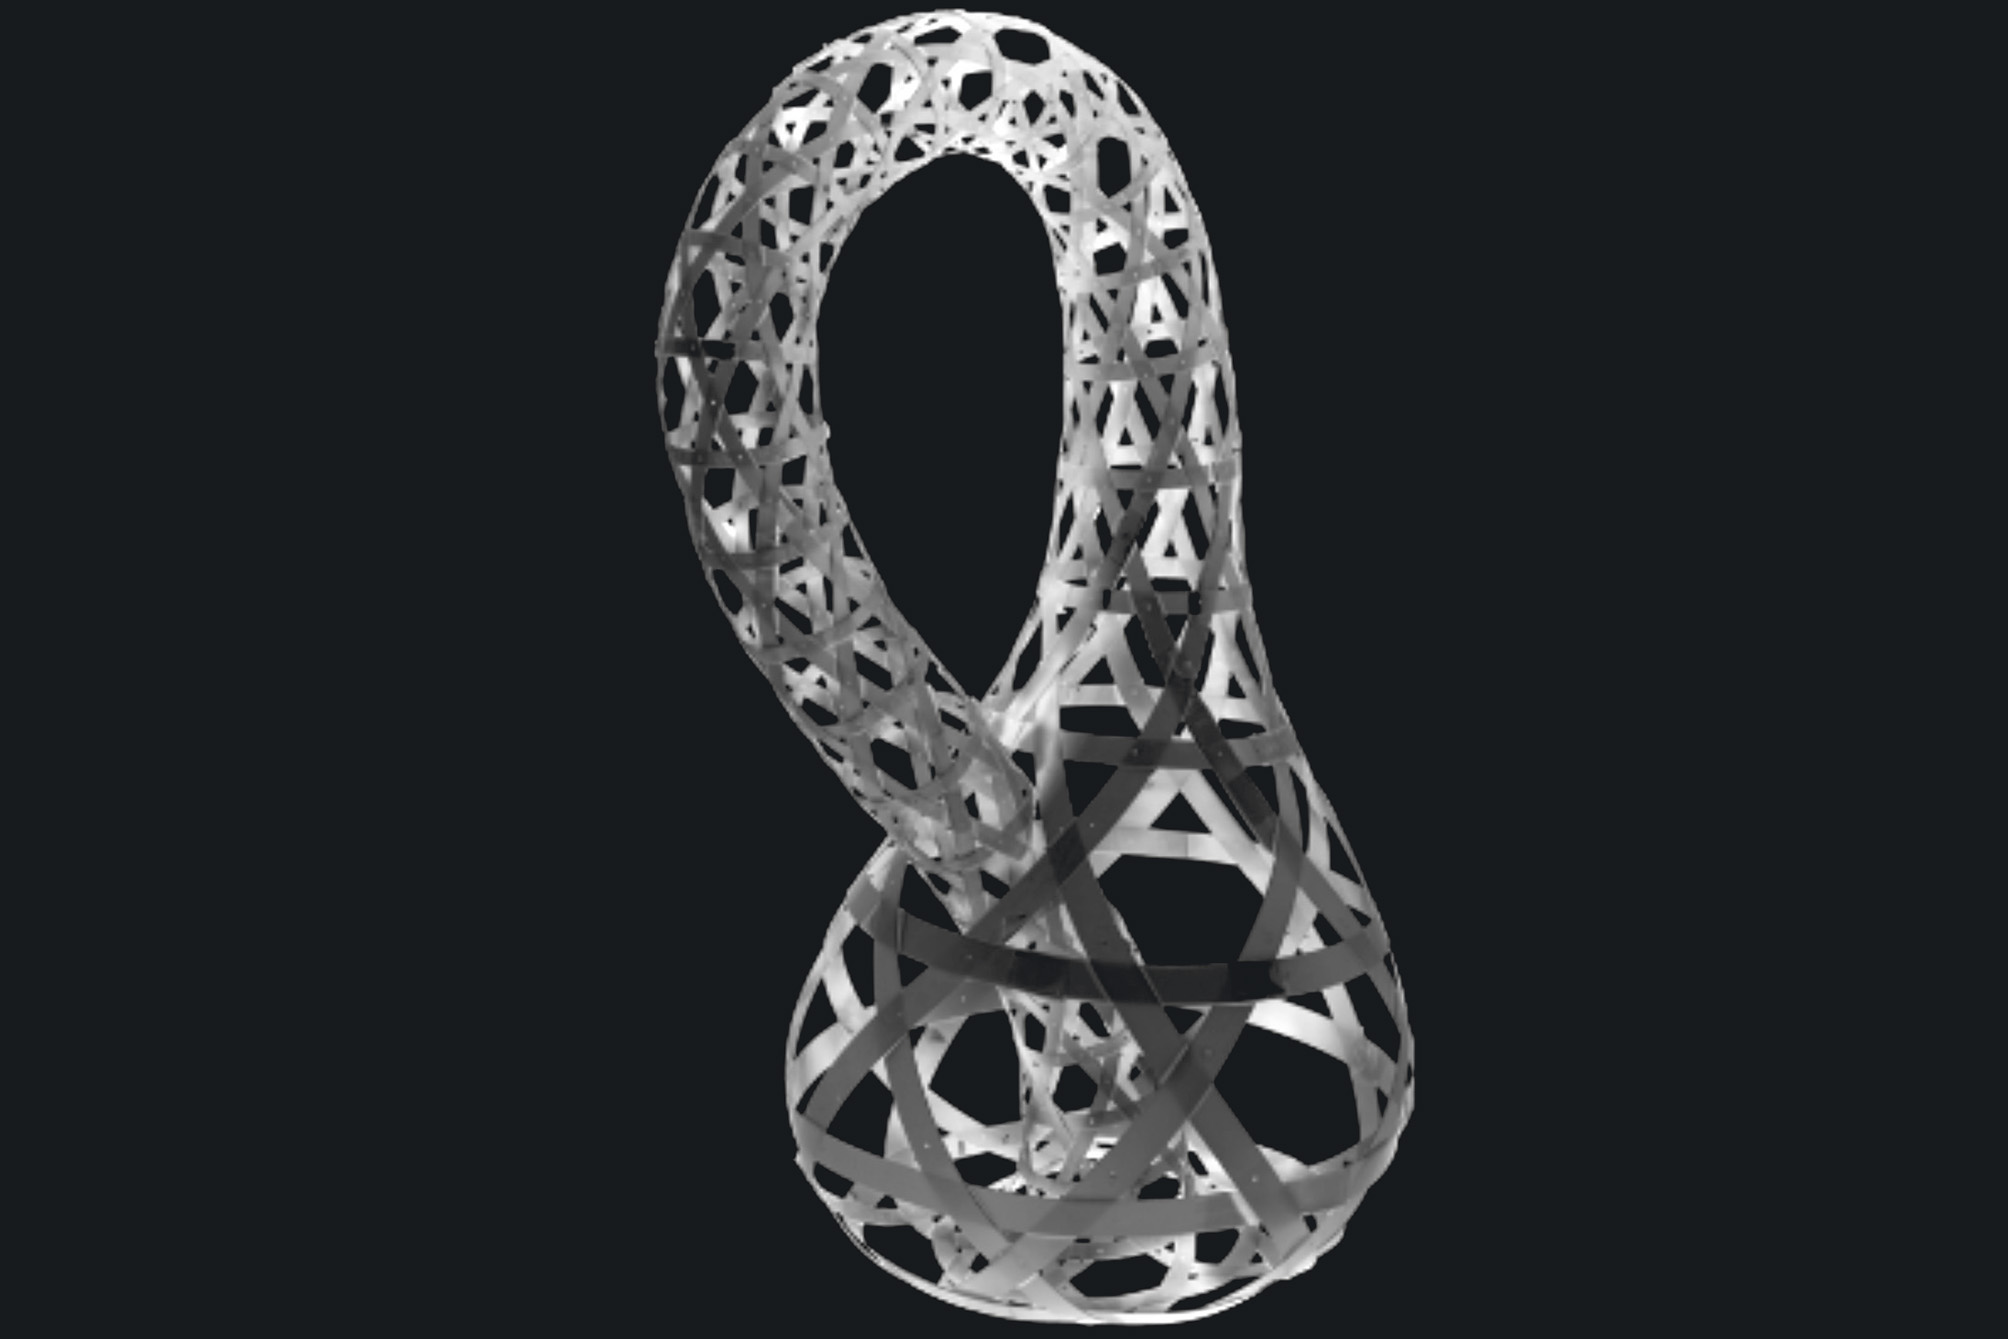
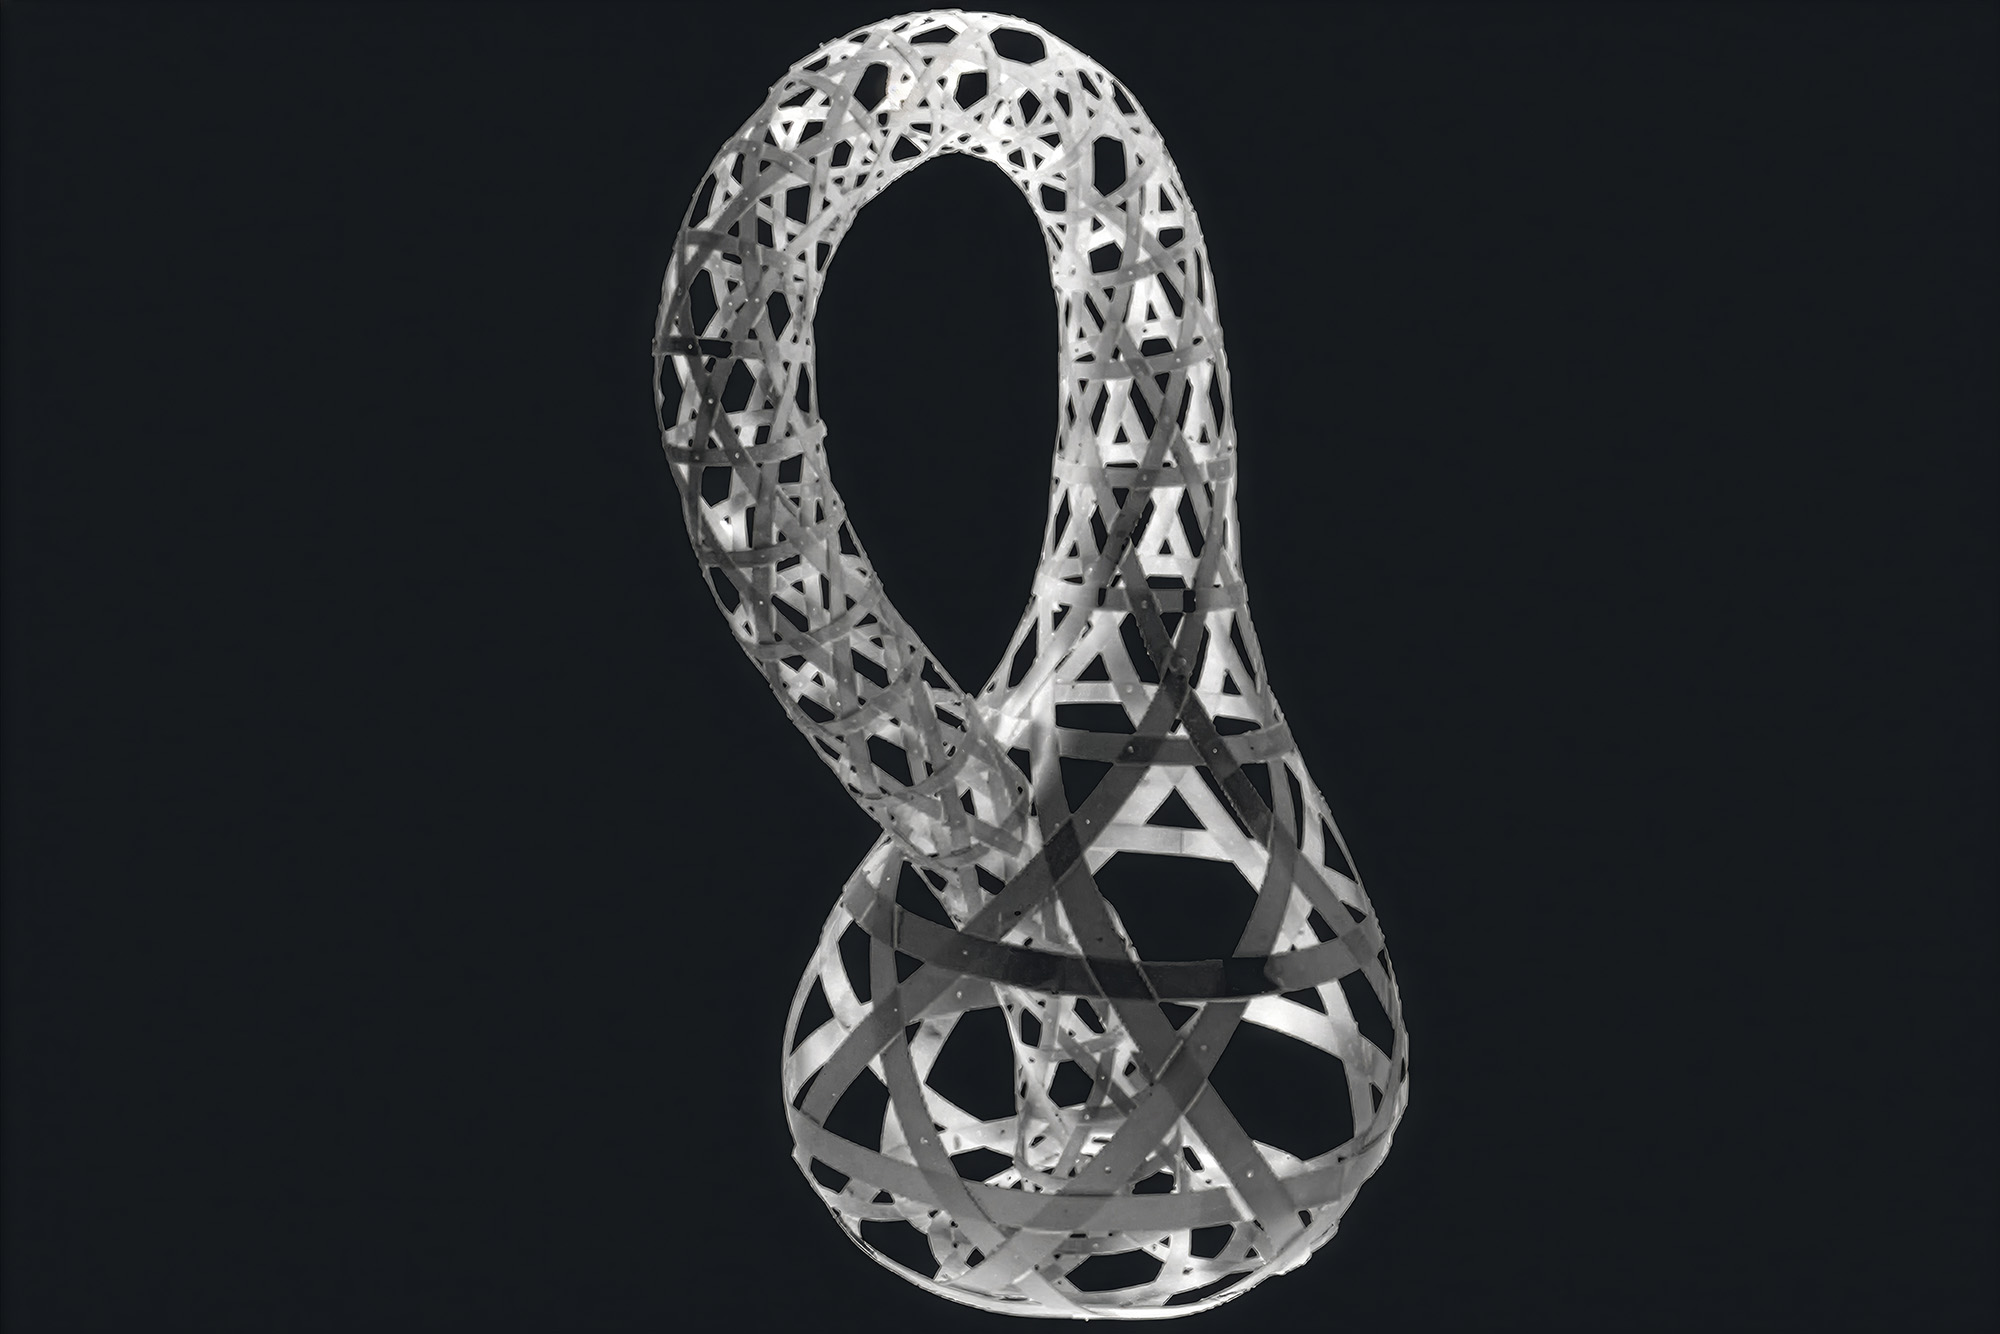
images change

diff --git a/src/assets/css/site.css b/src/assets/css/site.css
@@ -9,8 +9,8 @@
   /* Four-color palette */
   --black: #161A1D;
   --white: #FFFFFF;
-  --blue:  #173D70;   /* Science accent */
-  --amber: #C8772E;   /* Art accent */
+  --blue:   #3B82F6;   /* THE blue — every Science accent */
+  --orange: #E0760F;   /* THE orange — every Art accent */
 
   /* Derived neutrals (tints of black, kept disciplined) */
   --rule:        rgba(22, 26, 29, 0.18);
@@ -41,7 +41,7 @@
 [data-mode="gallery"] {
   --bg:     var(--black);
   --fg:     var(--white);
-  --accent: var(--amber);
+  --accent: var(--orange);
   --logo-mark: var(--black);
   --logo-bg:   var(--white);
   --rule:        rgba(255, 255, 255, 0.18);
@@ -82,13 +82,32 @@ a:hover { text-decoration: underline; }
   top: 0;
   z-index: 50;
   padding: 14px 0 0;
-  /* Colored frost with white chrome (blue in Science, orange in Art) */
-  background: rgba(40, 54, 78, 0.66);
+  /* Frosted banner. Chrome color/accent are tokens set per context below, so
+     the same rules render correctly on dark and light banners.
+     Science (default): dark-grey frost, white chrome, vivid-blue links. */
+  --hdr-fg: var(--white);
+  --hdr-fg-inv: var(--black);
+  --hdr-shadow: 0 1px 8px rgba(0, 0, 0, 0.4);
+  background: rgba(0, 0, 0, 0.85);
   -webkit-backdrop-filter: saturate(1.3) blur(12px);
   backdrop-filter: saturate(1.3) blur(12px);
   transition: padding 0.2s ease;
 }
-[data-mode="gallery"] .site-header { background: rgba(108, 84, 60, 0.66); }
+/* Art: white frost, black chrome, vivid-orange links */
+[data-mode="gallery"] .site-header {
+  background: rgba(255, 255, 255, 0.85);
+}
+[data-mode="gallery"] body:not(.is-deck) .site-header {
+  --hdr-fg: var(--black);
+  --hdr-fg-inv: var(--white);
+  --hdr-shadow: none;
+}
+/* Front page over a light panel -> black chrome (Science and Art both flip) */
+body.is-deck .site-header--on-light {
+  --hdr-fg: var(--black);
+  --hdr-fg-inv: var(--white);
+  --hdr-shadow: none;
+}
 
 /* Elaborate divider — faded gradient line with a centered accent diamond.
    Constrained to the content column so nothing bleeds to the viewport edge. */
@@ -163,9 +182,9 @@ a:hover { text-decoration: underline; }
   letter-spacing: -0.01em;
   color: var(--fg);
 }
-/* Mode-specific suffix: "Lab" (blue) in Science, "Studio" (amber) in Art */
+/* Mode-specific suffix: "Laboratory" (blue) in Science, "Studio" (orange) in Art */
 .wordmark__suffix--lab { color: var(--blue); }
-.wordmark__suffix--studio { color: var(--amber); }
+.wordmark__suffix--studio { color: var(--orange); }
 [data-mode="research"] .wordmark__suffix--studio { display: none; }
 [data-mode="gallery"]  .wordmark__suffix--lab { display: none; }
 
@@ -872,7 +891,7 @@ a:hover { text-decoration: underline; }
 .proj--art {
   --bg: var(--black);
   --fg: var(--white);
-  --accent: var(--amber);
+  --accent: var(--orange);
   --rule: rgba(255,255,255,0.18);
   --muted: rgba(255,255,255,0.6);
   background: var(--black);
@@ -1047,7 +1066,7 @@ a:hover { text-decoration: underline; }
 .lightbox__nav { top: 50%; transform: translateY(-50%); font-size: 44px; padding: 12px; }
 .lightbox__nav--prev { left: 12px; }
 .lightbox__nav--next { right: 12px; }
-.lightbox__nav:hover, .lightbox__close:hover { color: var(--amber); }
+.lightbox__nav:hover, .lightbox__close:hover { color: var(--accent); }
 
 /* ---------- Collapsing header (all pages) ------------------------------- */
 /* Full header on load; once scrolled, JS adds --compact to shrink it to a
@@ -1088,38 +1107,35 @@ body.is-deck .site-header::before {
   position: absolute;
   inset: 0;
   z-index: -1;
-  background: rgba(40, 54, 78, 0.5);
+  background: rgba(22, 26, 29, 0.5);   /* over a dark panel (Science + Art) */
   -webkit-backdrop-filter: blur(10px);
   backdrop-filter: blur(10px);
   pointer-events: none;
 }
-[data-mode="gallery"] body.is-deck .site-header::before { background: rgba(108, 84, 60, 0.5); }
-/* Header chrome is white on the colored frost, on every page (like the homepage).
-   Hover/active picks up a light tint of the mode accent. */
+/* Front page frost follows the panel brightness (light image -> white frost). */
+body.is-deck .site-header--on-light::before { background: rgba(255, 255, 255, 0.6); }
+
+/* Header chrome, driven by the per-context tokens set on .site-header above. */
 .site-header .wordmark__name,
 .site-header .wordmark__suffix--lab,
 .site-header .wordmark__suffix--studio,
 .site-header .site-menu__link {
-  color: var(--white);
-  text-shadow: 0 1px 8px rgba(0, 0, 0, 0.4);
+  color: var(--hdr-fg);
+  text-shadow: var(--hdr-shadow);
 }
 .site-header .site-menu__link:hover,
-.site-header .site-menu__link.is-active { color: #A9C4E8; }
-[data-mode="gallery"] .site-header .site-menu__link:hover,
-[data-mode="gallery"] .site-header .site-menu__link.is-active { color: #F0B27A; }
-.site-header .mode-toggle { border-color: var(--white); background: transparent; }
-.site-header .mode-toggle__btn { color: var(--white); }
-.site-header .mode-toggle__btn[aria-selected="true"] { background: var(--white); color: var(--black); }
-.site-header .menu-btn__bar { background: var(--white); }
-/* Logo: white disc + dark mark reads on the colored frost everywhere. */
-.site-header .wordmark__logo svg > circle { fill: var(--white); }
-.site-header .wordmark__logo svg g { fill: var(--black); }
-/* On the deck the JS flips the disc per panel brightness (only the outer disc;
-   the "i" dot lives in the <g> and keeps the mark color). */
-body.is-deck .site-header--on-light .wordmark__logo svg > circle { fill: var(--black); }
-body.is-deck .site-header--on-light .wordmark__logo svg g { fill: var(--white); }
-body.is-deck .site-header--on-dark .wordmark__logo svg > circle { fill: var(--white); }
-body.is-deck .site-header--on-dark .wordmark__logo svg g { fill: var(--black); }
+.site-header .site-menu__link.is-active { color: var(--accent); }
+.site-header .mode-toggle { border-color: var(--hdr-fg); background: transparent; }
+.site-header .mode-toggle__btn { color: var(--hdr-fg); }
+.site-header .mode-toggle__btn[aria-selected="true"] { background: var(--hdr-fg); color: var(--hdr-fg-inv); }
+.site-header .menu-btn__bar { background: var(--hdr-fg); }
+/* Logo: disc takes the chrome color, the "AIM" mark takes its inverse. */
+.site-header .wordmark__logo svg > circle { fill: var(--hdr-fg); }
+.site-header .wordmark__logo svg g { fill: var(--hdr-fg-inv); }
+/* Front-page wordmark suffix keeps the mode color (Laboratory blue, Studio
+   orange). It only shows on the homepage, where the full name is visible. */
+.site-header .wordmark__suffix--lab { color: var(--blue); }
+.site-header .wordmark__suffix--studio { color: var(--orange); }
 
 /* Two decks, one per mode */
 [data-mode="research"] .deck--gallery { display: none; }
@@ -1157,7 +1173,6 @@ body.is-deck .site-header--on-dark .wordmark__logo svg g { fill: var(--black); }
   padding: 0 var(--gutter) 44px;
   color: var(--white);
 }
-.deck__count { font-size: 12px; letter-spacing: 0.14em; opacity: 0.75; margin: 0 0 8px; font-variant-numeric: tabular-nums; }
 .deck__title {
   font-size: clamp(20px, 2.4vw, 30px);
   line-height: 1.06;
@@ -1167,6 +1182,8 @@ body.is-deck .site-header--on-dark .wordmark__logo svg g { fill: var(--black); }
   max-width: 18em;
   text-shadow: 0 2px 14px rgba(0,0,0,0.45);
 }
+.deck__title a { color: inherit; text-decoration: none; }
+.deck__title a:hover { text-decoration: underline; }
 .deck__subtitle {
   font-family: Georgia, "Times New Roman", Times, serif;
   font-style: italic;